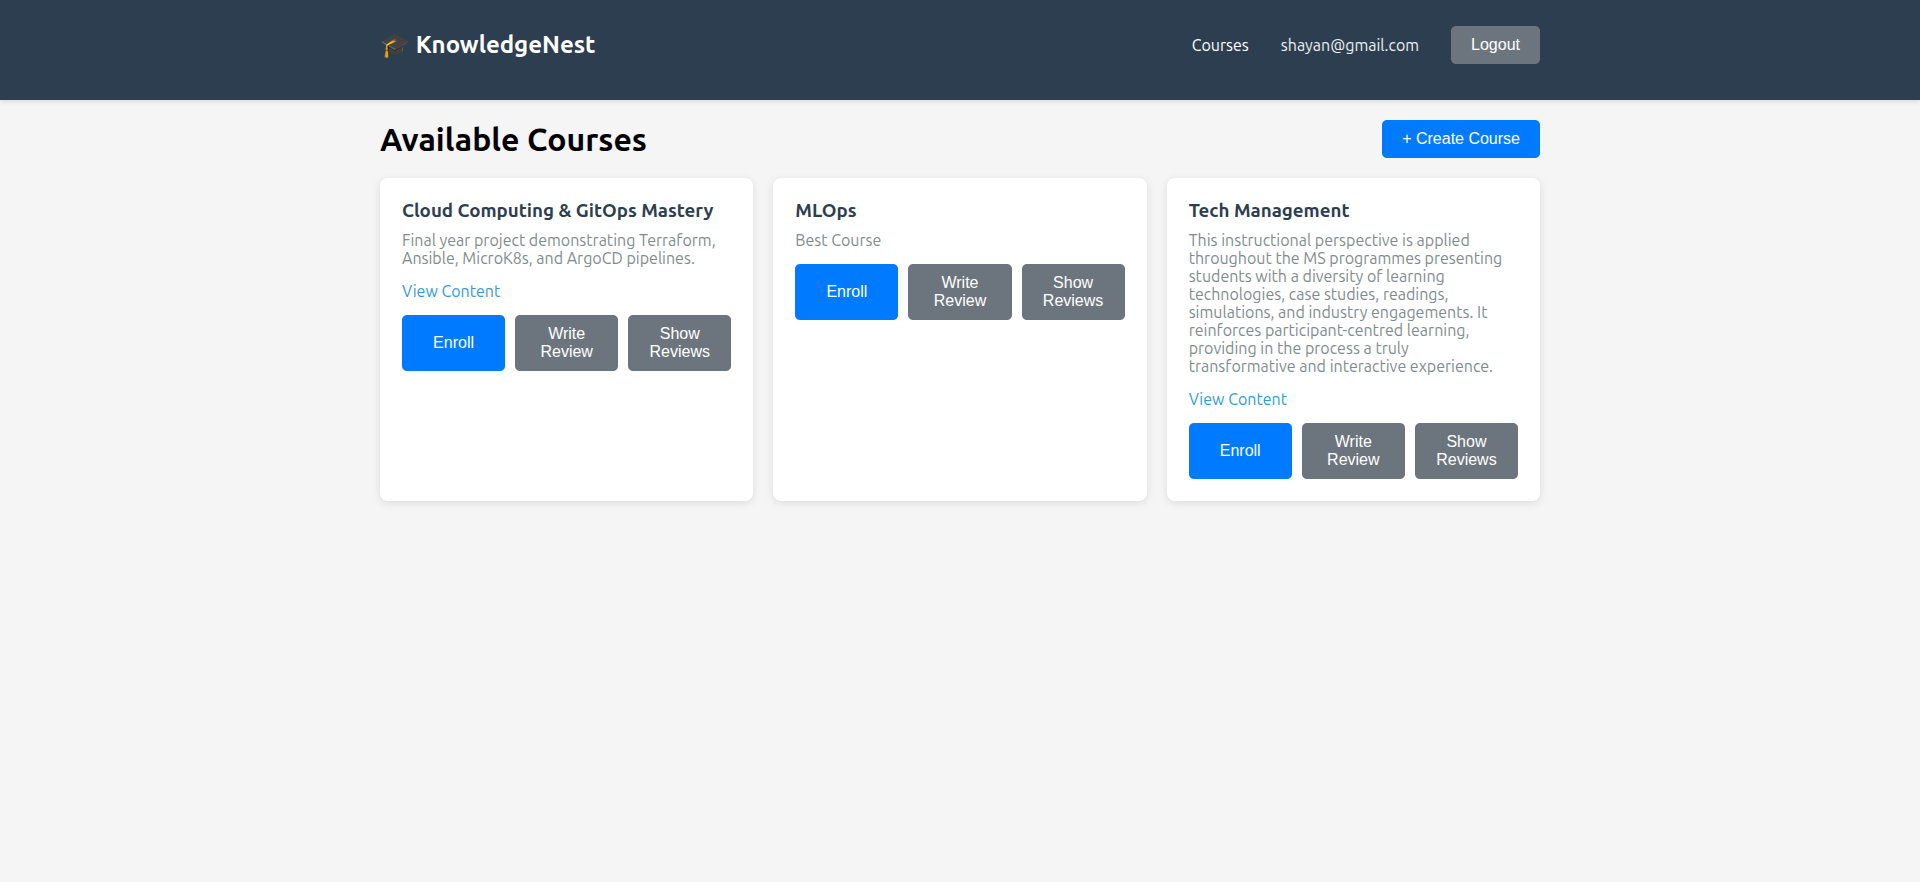
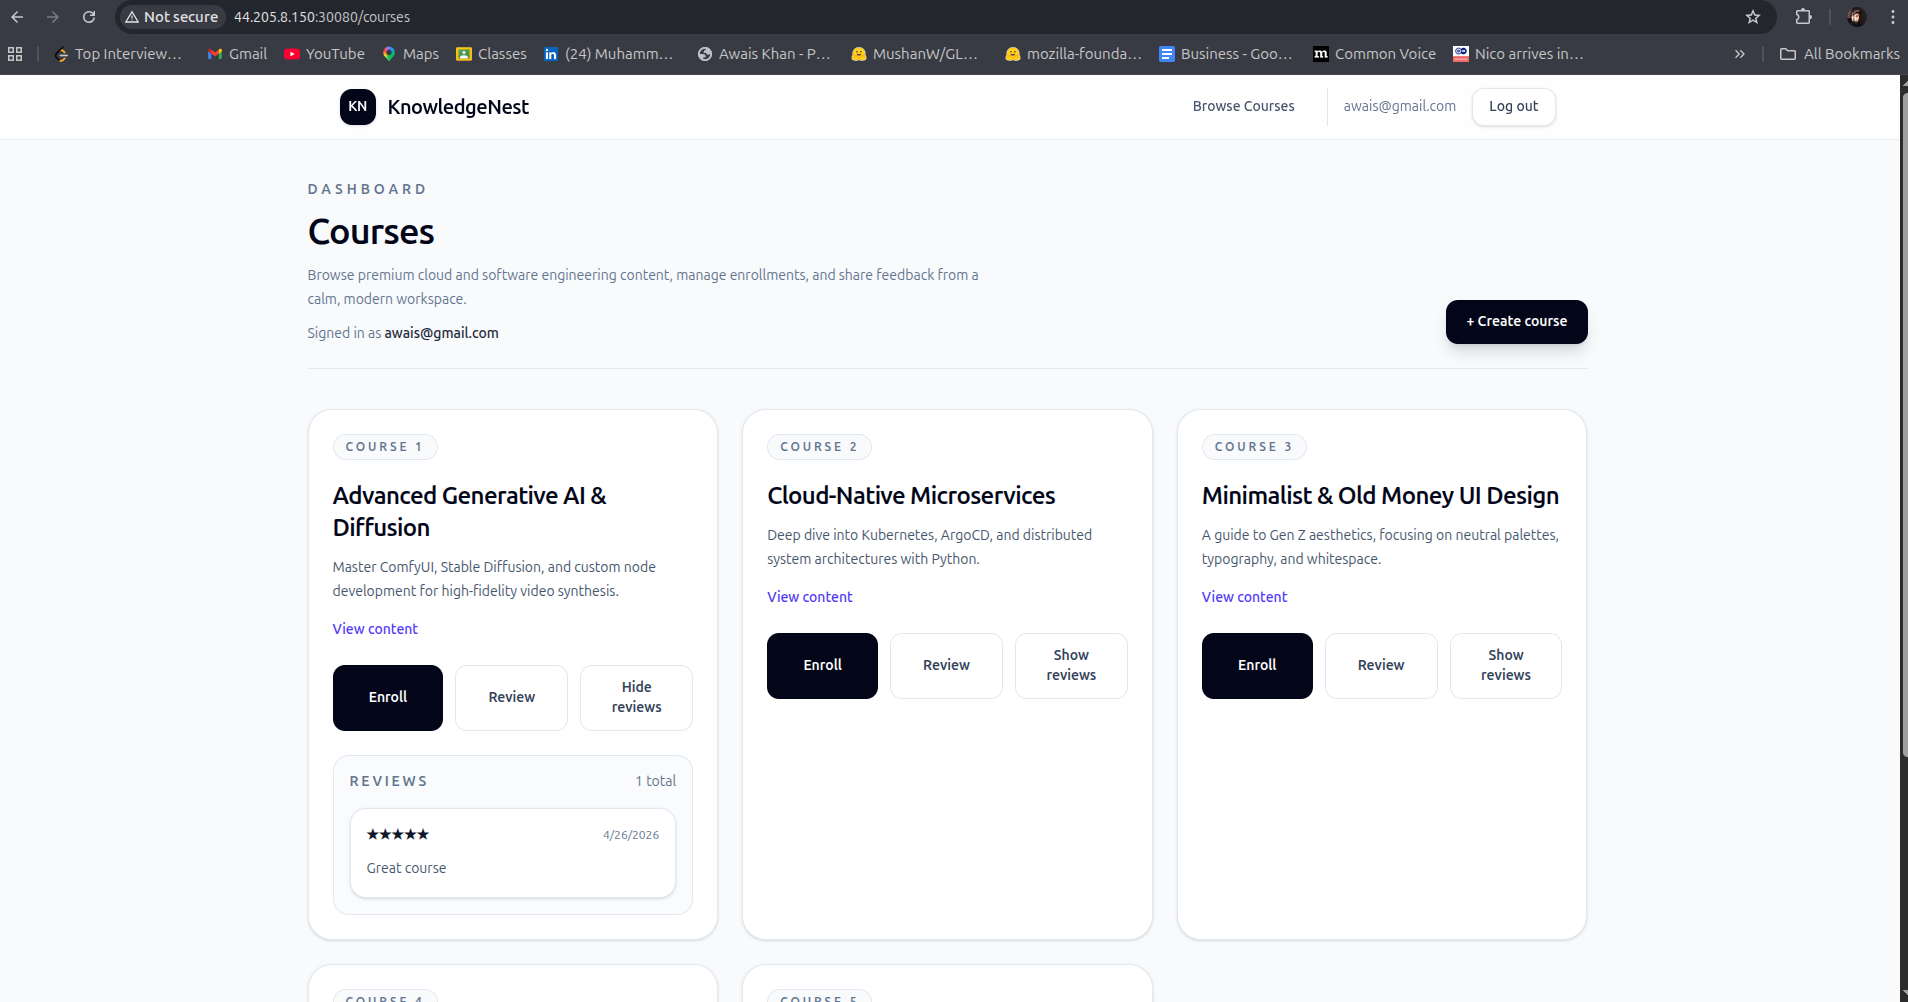
docs: update README and add latest screenshots

diff --git a/Readme.MD b/Readme.MD
@@ -132,7 +132,7 @@ The infrastructure and application logic are fully operational. All microservice
 **Application Verification:**
 The KnowledgeNest application is live and accessible.
 * **URL:** `http://44.205.8.150:30080`
-
+![The live KnowledgeNest Landing Page in the browser](screenshots/app1.png)
 ![The live KnowledgeNest application UI in the browser](screenshots/app.png)
 
 ---